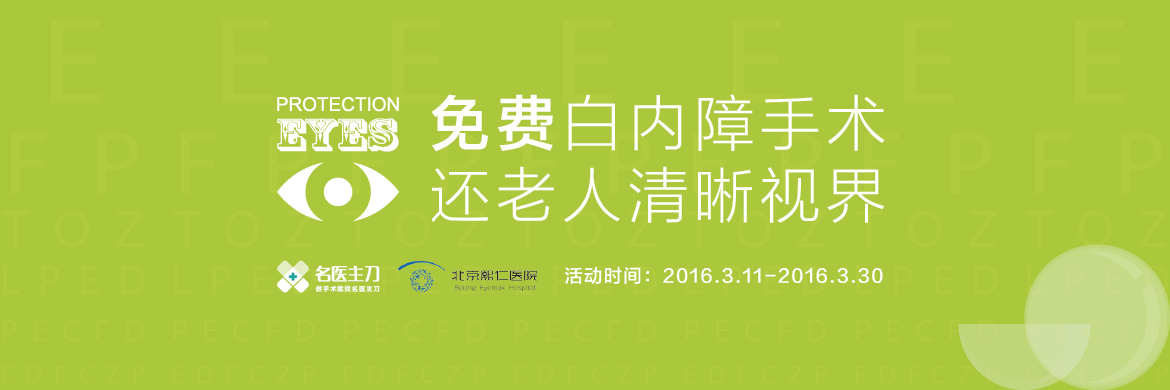
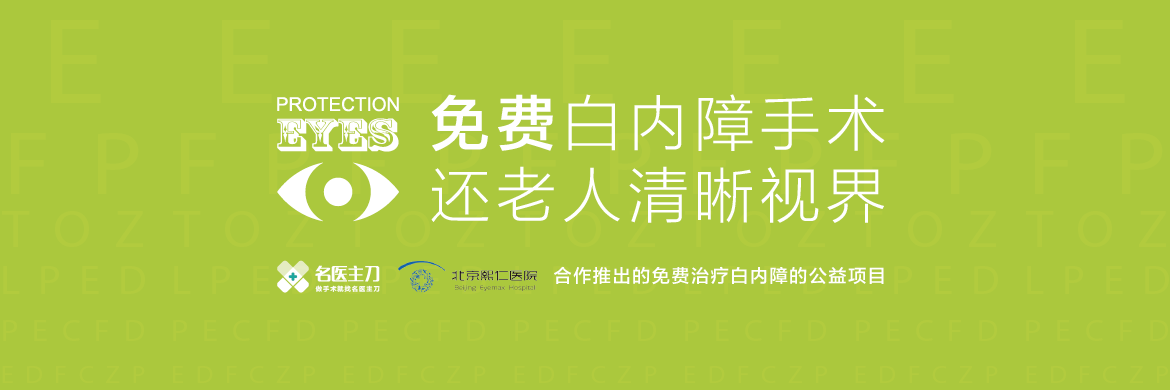
v5 白内障专题修改

Changed region(s): [[0.8, 0.6154, 1.0, 1.0], [0.4615, 0.6769, 0.7692, 0.7385]]

diff --git a/themes/v5/css/event-cataract.css b/themes/v5/css/event-cataract.css
@@ -6,6 +6,9 @@
 #cataract .main-body .main-content .text-content{background-color:#f7f7f7;padding:40px 75px 100px;font-size:15px;color:#555;}
 #cataract .main-body .main-content .text-content .yellow-star{color:#f8b62c;margin-right:5px;margin-left:-20px;}
 #cataract .main-body .main-content .text-content .text-red{color:#e50011;}
+#cataract .main-body .main-content .text-content .tidy{text-align:justify;}
+#cataract .main-body .main-content .text-content .booking:hover{text-decoration:underline;cursor:pointer;}
+.color-036eb8{color:#036eb8;}
 .text18{font-size:18px;}
 .bg-abc83d{background-color:#abc83d;}
 .mt25{margin-top:25px;}

diff --git a/themes/v5/views/site/pages/help.php b/themes/v5/views/site/pages/help.php
@@ -327,7 +327,7 @@ $isTerms = Yii::app()->request->getQuery('page', '');
                         <span style="font-size:14px;font-family:'Microsoft YaHei';line-height:2;">&nbsp;&nbsp;</span><br />
                         <span style="font-size:14px;font-family:'Microsoft YaHei';line-height:2;"><strong>四、关于医生 &nbsp;</strong></span><br />
                         <span style="font-size:14px;font-family:'Microsoft YaHei';line-height:2;">1. 当您注册成为本平台的用户后，即应遵守本平台的规则，服从本平台的管理。&nbsp;</span><br />
-                        <span style="font-size:14px;font-family:'Microsoft YaHei';line-height:2;color:#E53333;">2. 作为医生用户，您知晓并认可本公司所提供的预约及转诊等服务，您有义务向您的病人告知本平台的服务流程、付费流程。如需与第三保险公司合作，您有义务向病人充分解释、取得病人授权，同意本公司为病人就本次预约、转诊及手术投保人身保险。</span><br />
+                        <span style="font-size:14px;font-family:'Microsoft YaHei';line-height:2;color:#E53333;">2. 作为医生用户，您知晓并认可本公司所提供的预约及转诊等服务，您有义务向您的病人告知本平台的服务流程、付费流程。如需与第三方保险公司合作，您有义务向病人充分解释、取得病人授权，同意本公司为病人就本次预约、转诊及手术投保人身保险。</span><br />
                         <span style="font-size:14px;font-family:'Microsoft YaHei';line-height:2;">3. 您通过本平台发表的各种言论，包括各种医学知识和针对特定患者的回复等，均系您的个人行为，不代表本公司赞同其观点或证实其内容的真实性，因该言论而产生的后果，本公司不承担责任。&nbsp;</span><br />
                         <span style="font-size:14px;font-family:'Microsoft YaHei';line-height:2;">4. 您在本平台发布的一切消息、文章、言论应当遵守医疗伦理和法律规定，并应当符合社会道德。&nbsp;</span><br />
                         <span style="font-size:14px;font-family:'Microsoft YaHei';line-height:2;">&nbsp; 如果发现您的言论有不符合上述规定的内容，本平台有权利给予屏蔽或删除，并保留对不符合规定言论进行处理而不通知发布者的权利。&nbsp;</span><br />
